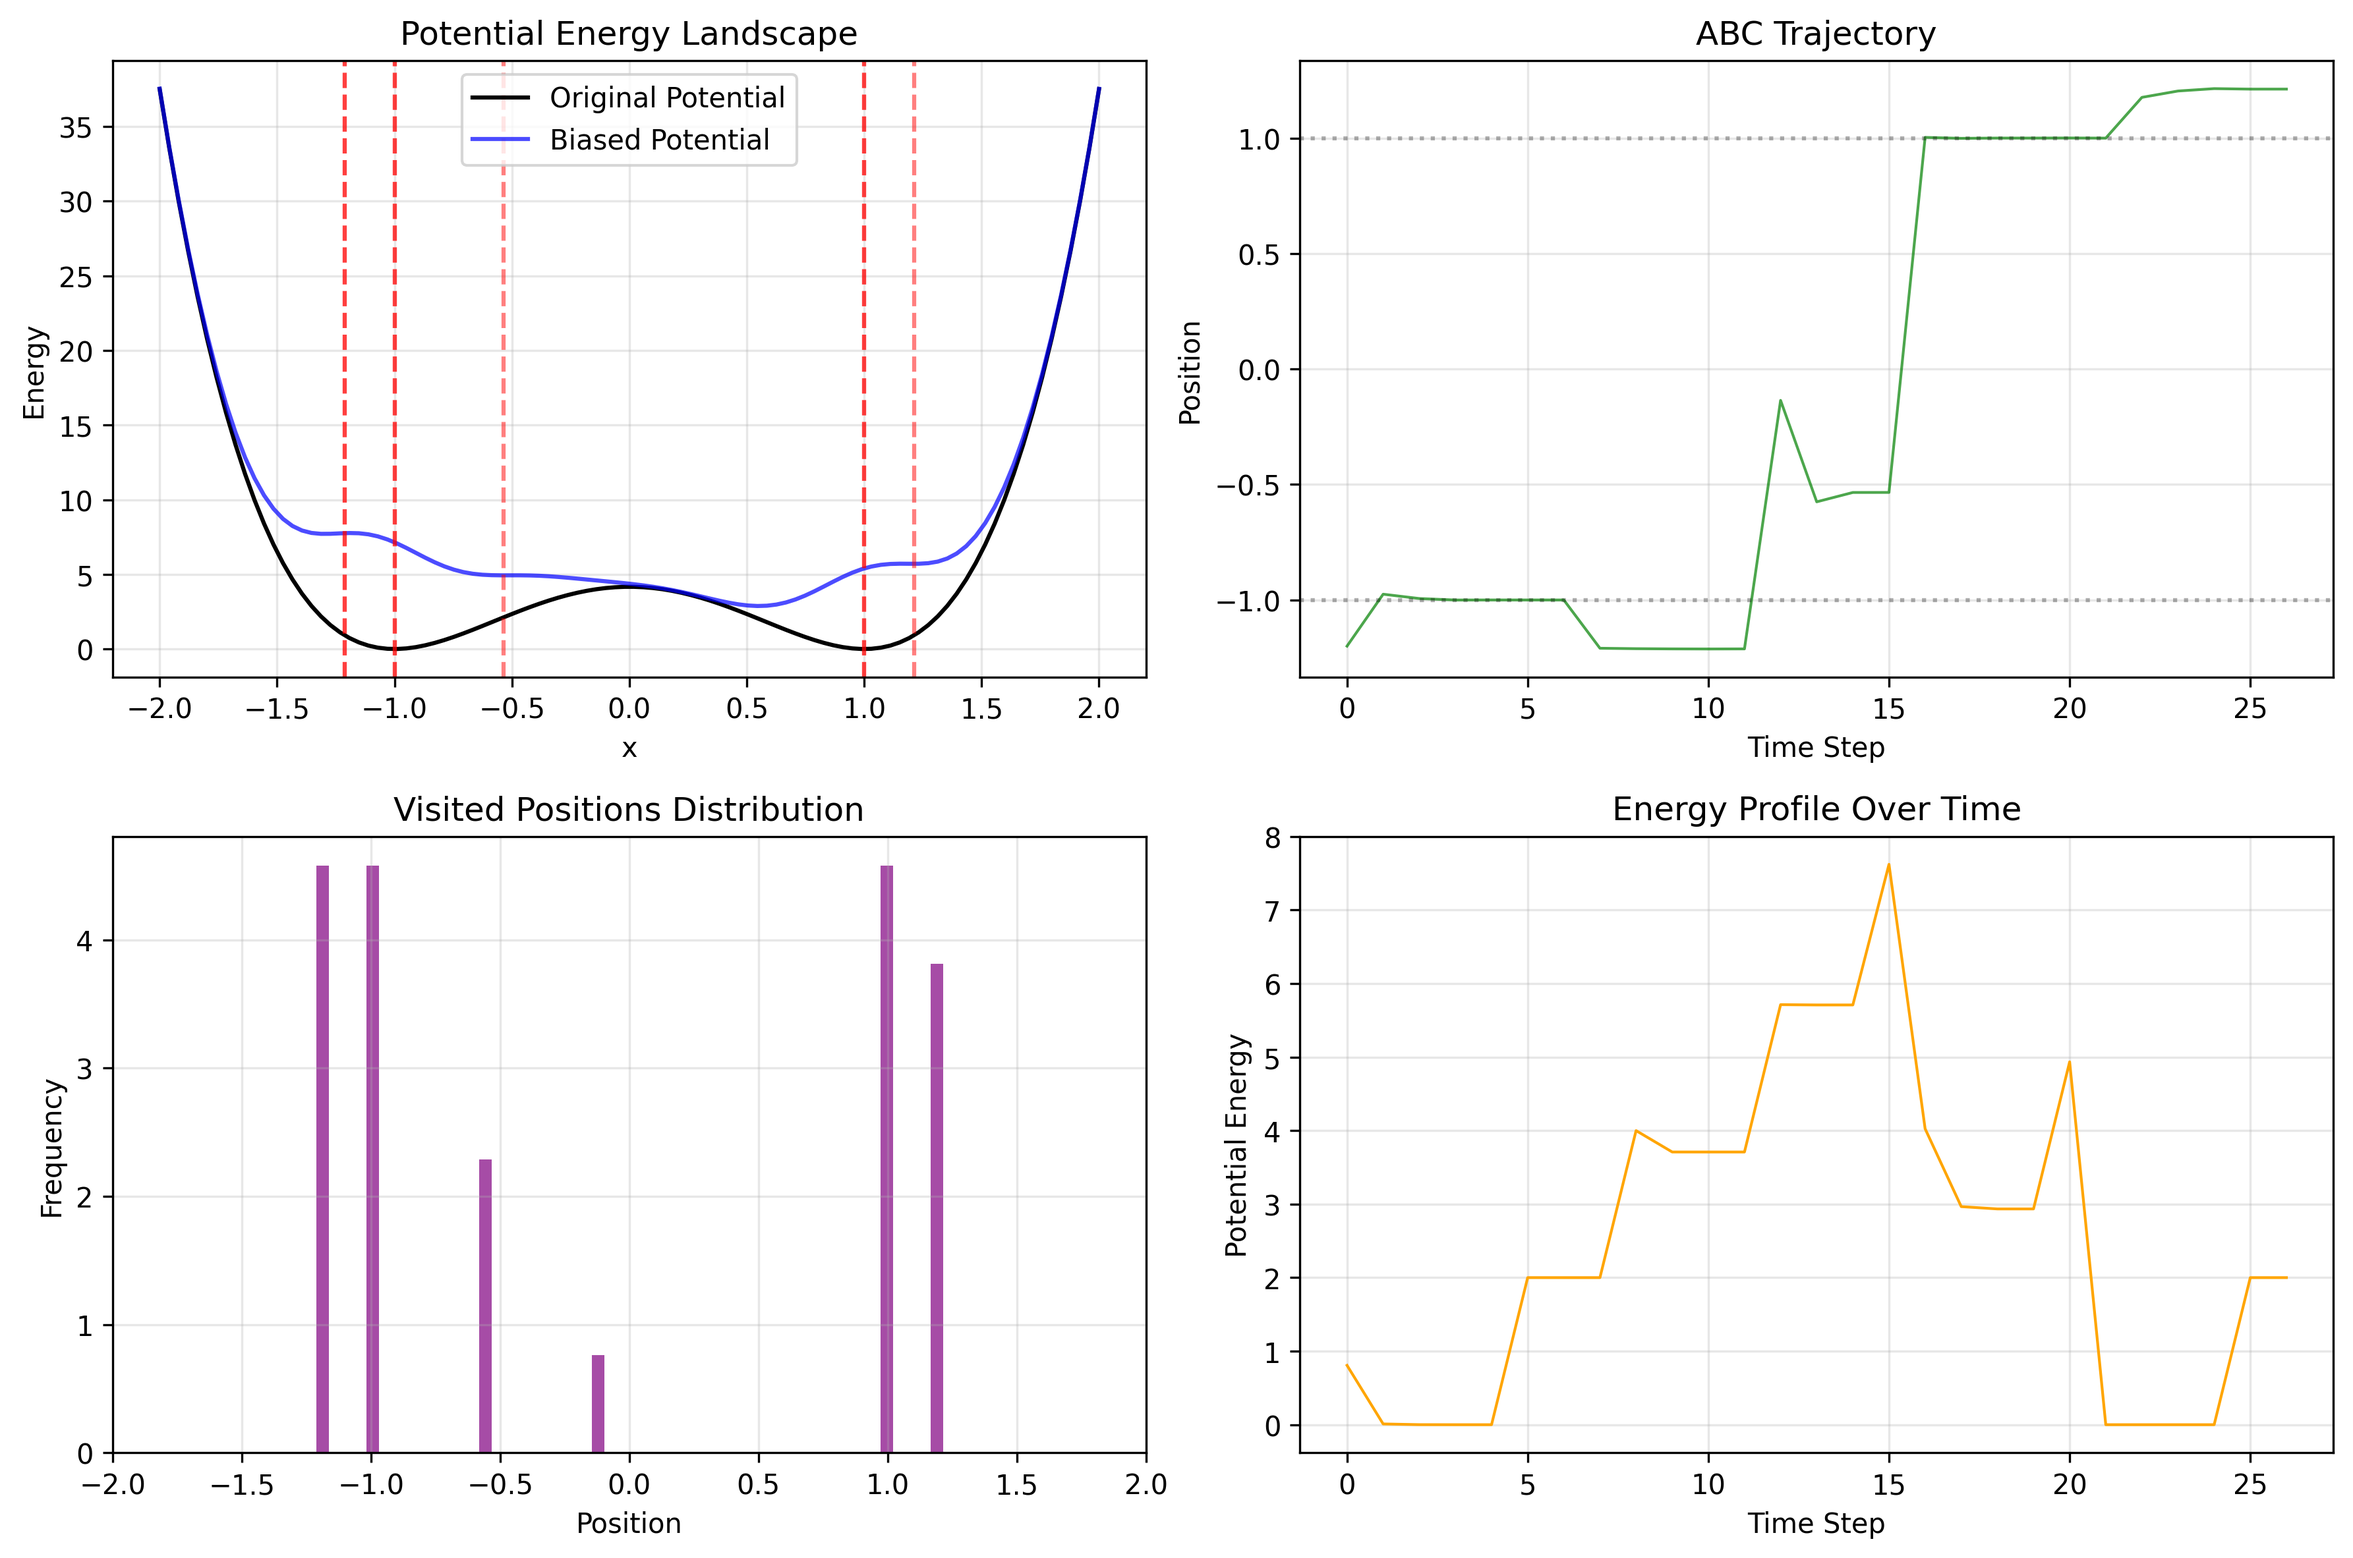
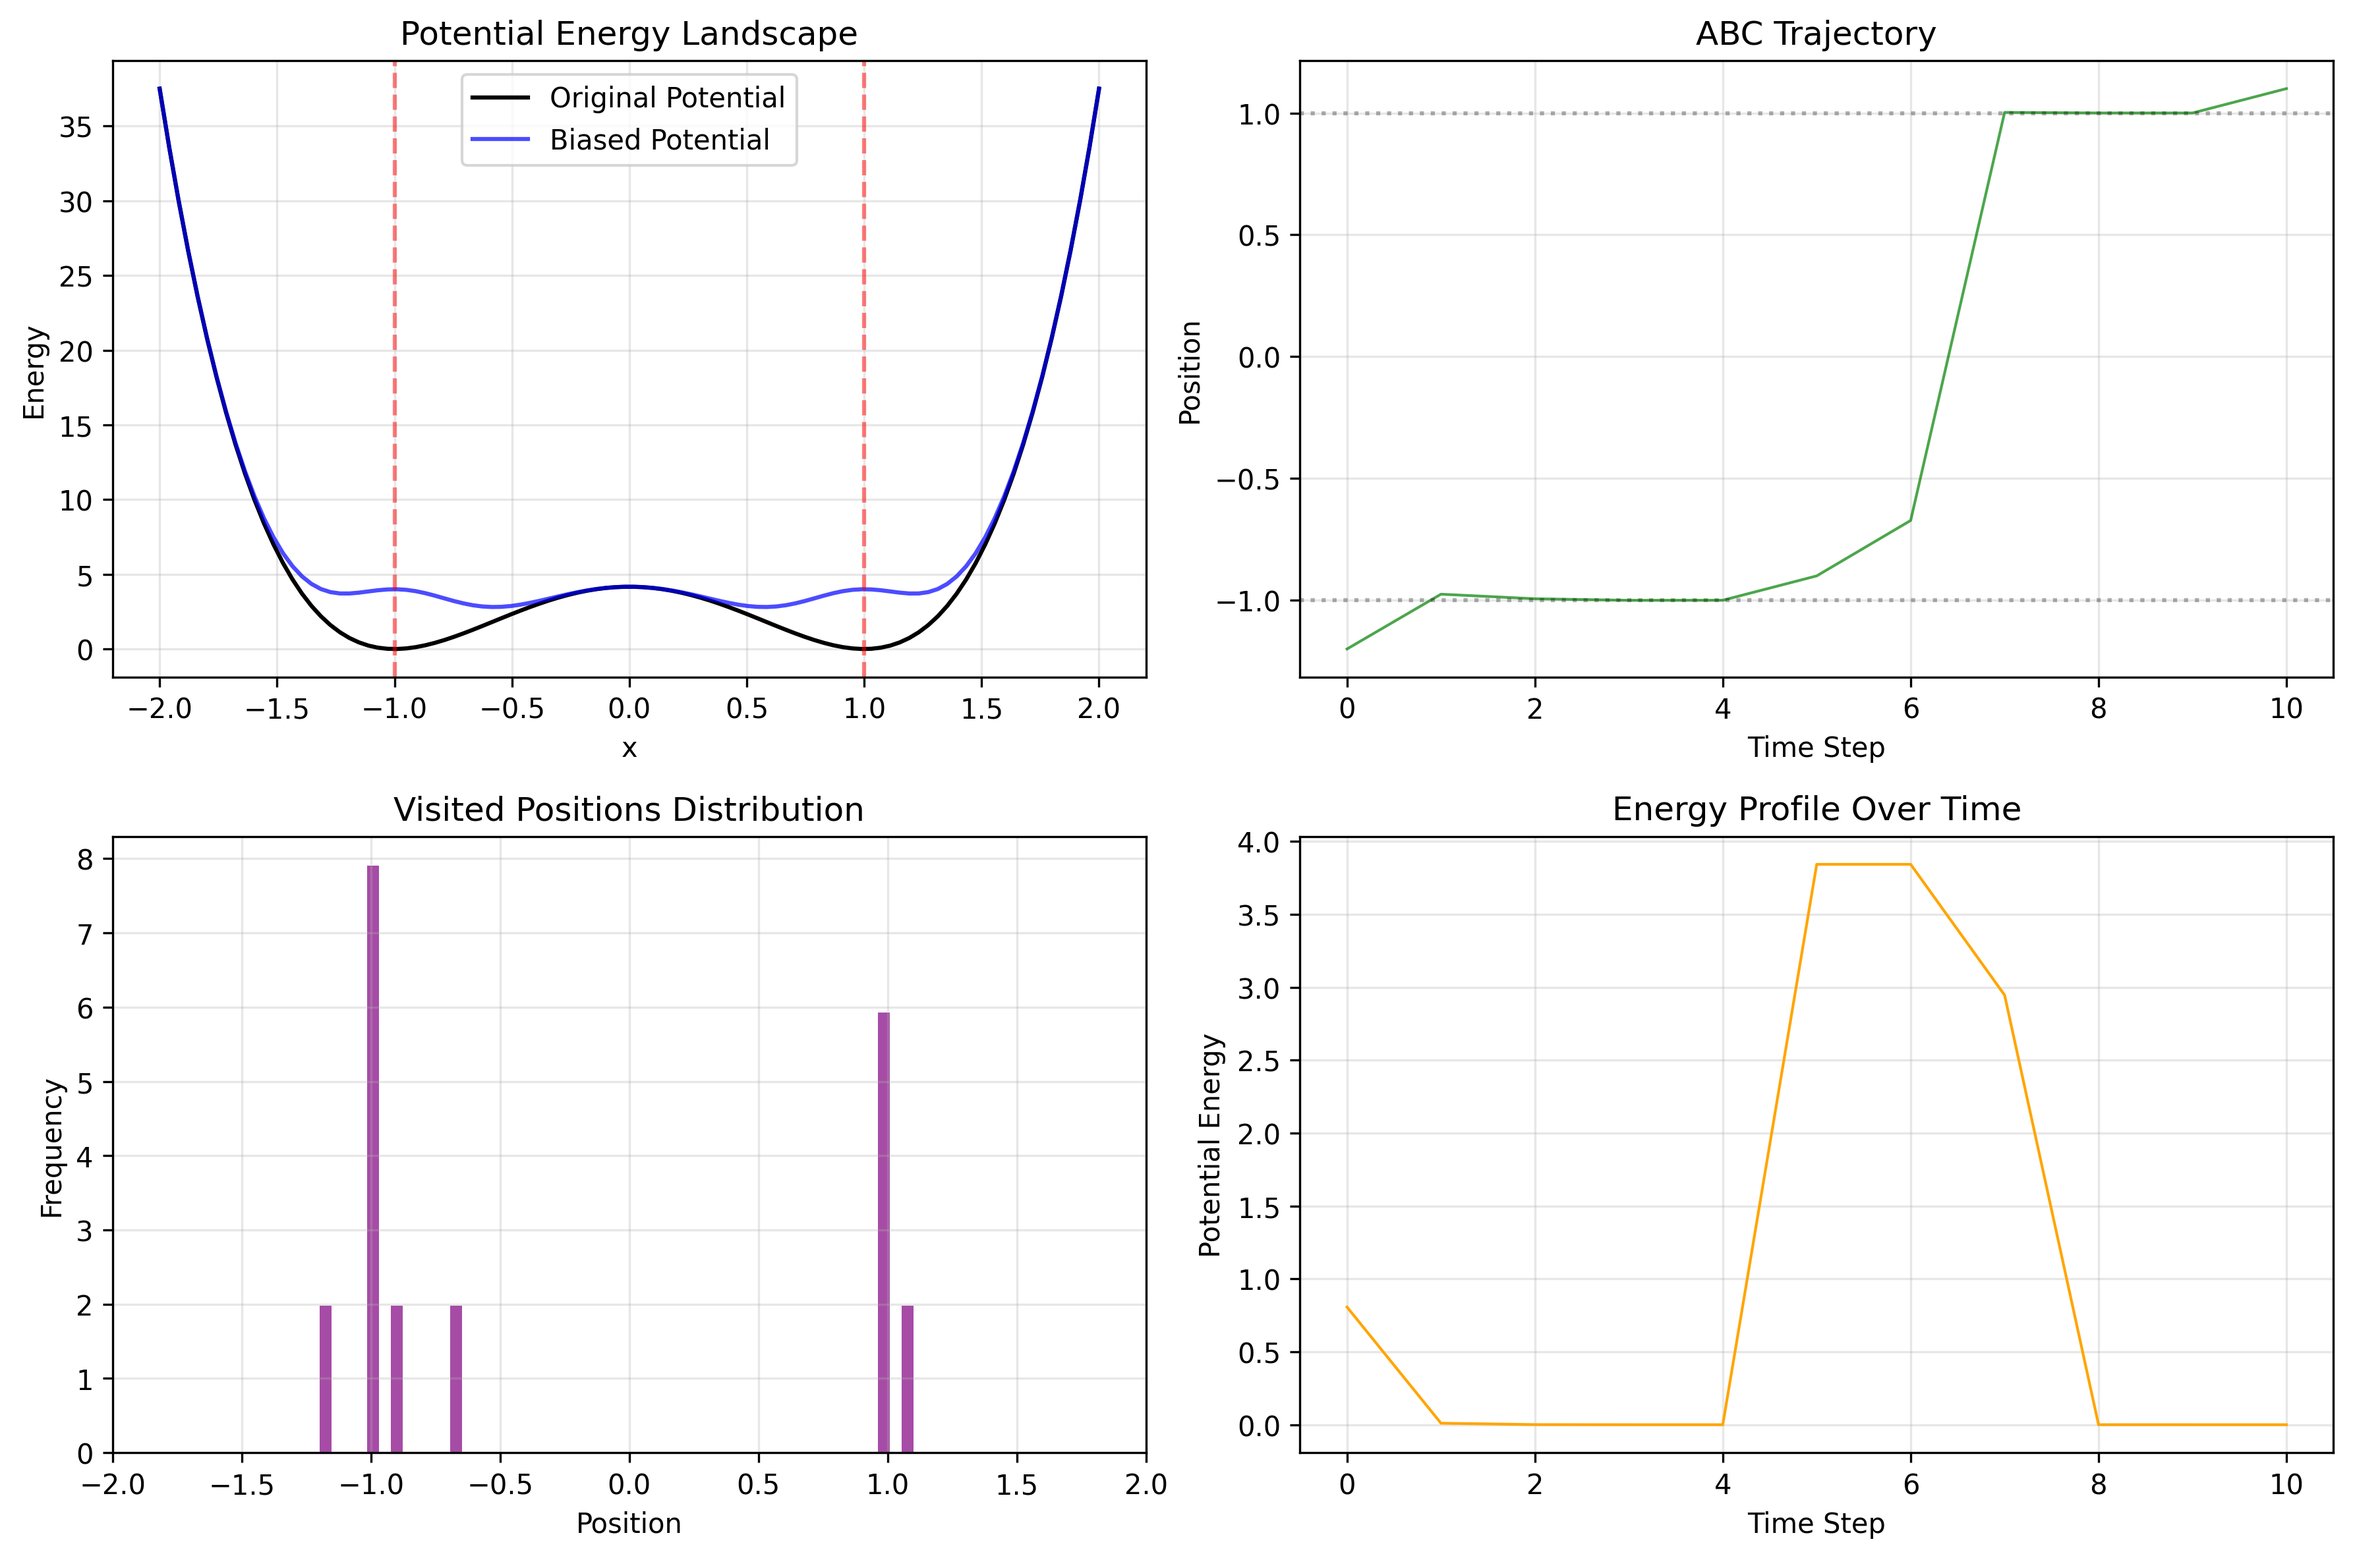
better plotting for perturbed methods

diff --git a/smart_perturbation.py b/smart_perturbation.py
@@ -36,12 +36,14 @@ class SmartPerturbABC(TraditionalABC):
         softest_eigvec = eigvecs[:, np.argmin(eigvals)]
 
         softest_direction = softest_eigvec / np.linalg.norm(softest_eigvec)
-        print(self.position)
         # Move slightly in that direction
         self.position += scale * softest_direction
-        print(self.position)
+        self.trajectory.append(self.position.copy())
+        self.forces.append(self.compute_force(self.position))
+        self.energies.append(self.total_potential(self.position))
         print(f"Perturbed along softest mode to {self.position}")
 
+    # Overrides traditional
     def run_simulation(
         self,
         max_iterations=30,
@@ -81,13 +83,13 @@ def run_1d_simulation():
     potential = DoubleWellPotential1D()
     abc = SmartPerturbABC(
         potential=potential,
-        bias_height=2,
+        bias_height=4,
         bias_sigma=0.5,
         basin_radius=0.5,
         starting_position=[-1.2]
     )
     
-    abc.run_simulation(max_iterations=8, verbose=True)
+    abc.run_simulation(max_iterations=2, perturb_scale=0.1, verbose=True)
     
     trajectory = abc.get_trajectory()
     print(f"\nSimulation Summary:")
@@ -113,7 +115,7 @@ def run_2d_simulation():
         starting_position=[0, 0]
     )
     
-    abc.run_simulation(max_iterations=3, verbose=True)
+    abc.run_simulation(max_iterations=3, perturb_scale=1, verbose=True)
     
     trajectory = abc.get_trajectory()
     print(f"\nSimulation Summary:")

diff --git a/analysis.py b/analysis.py
@@ -169,7 +169,7 @@ def _plot_2d_results(abc_sim, save_plots, filename="2d_results.png"):
     
     # Plot 4: Exploration metrics
     if len(trajectory) > 2:
-        window_size = 2
+        window_size = 3
         variances = []
         times = []
         
